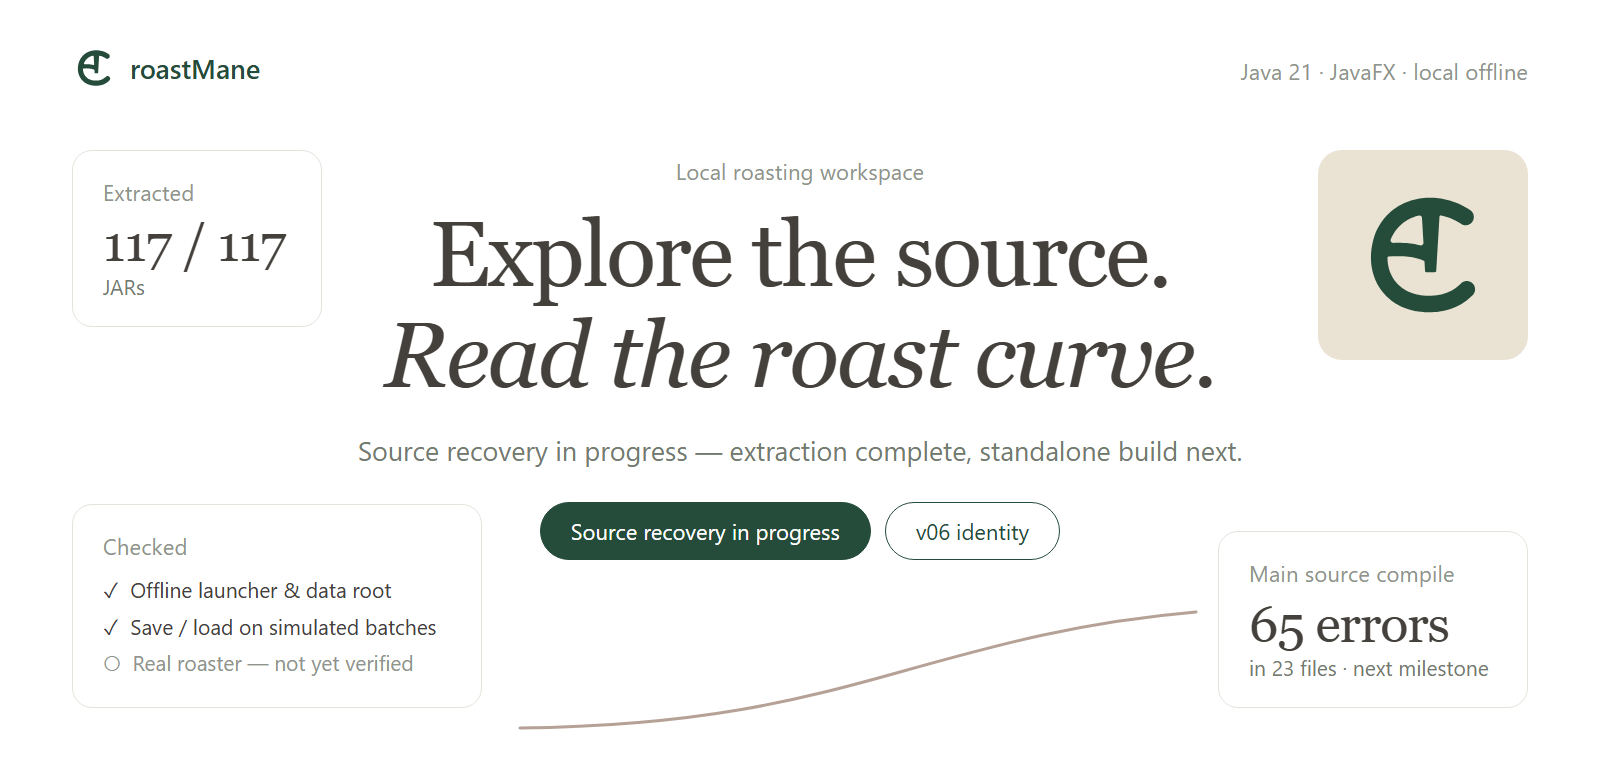
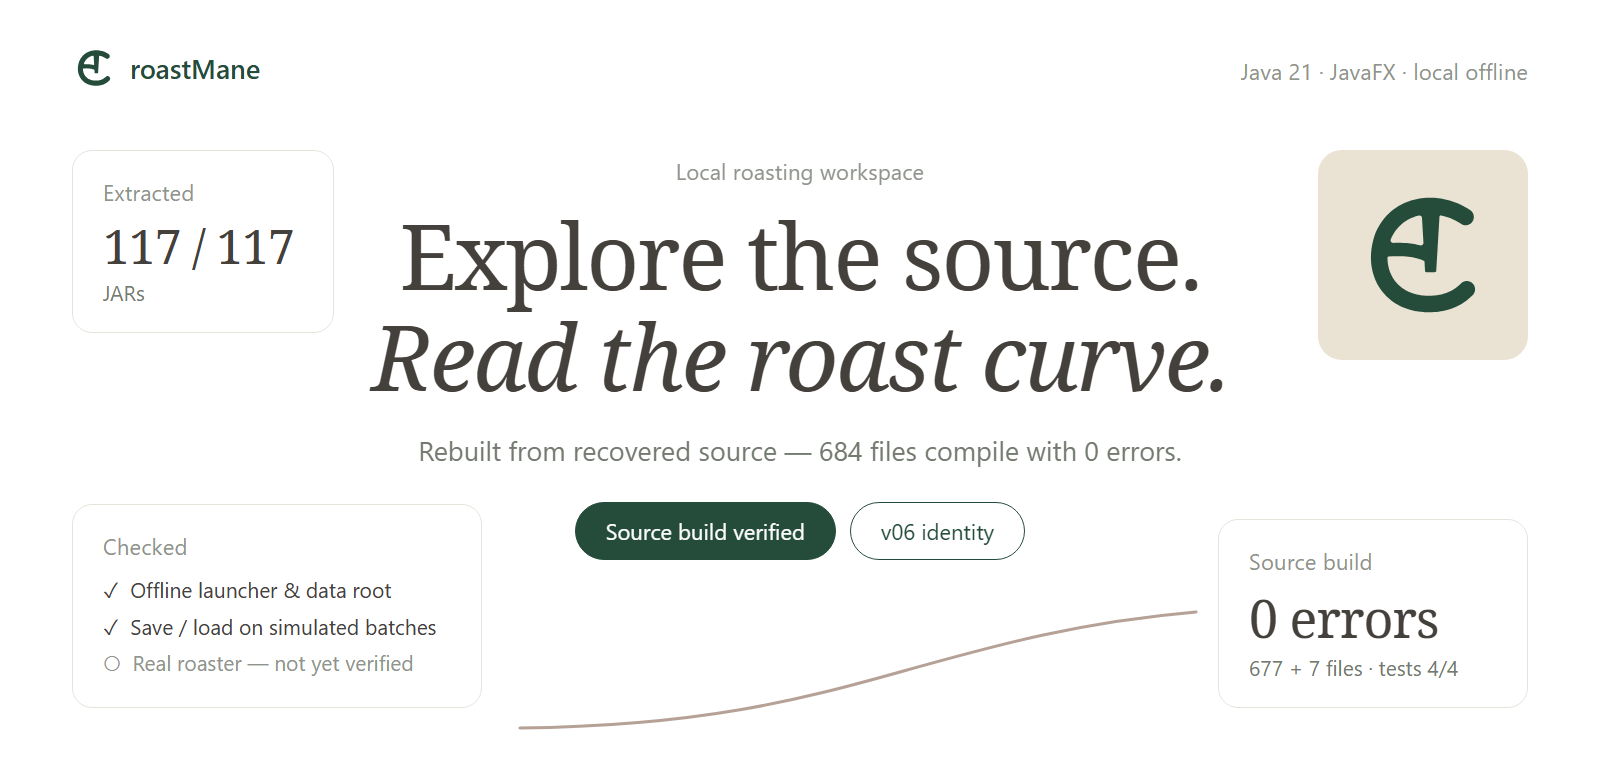
docs: README status and milestones as Steep-style cards, refresh visuals for 0-error source build
Plain tables move into collapsible sections; hero/journey/social now report the verified source build instead of 65 errors. Images get transparent rounded corners and Noto Serif for Vietnamese diacritics.

diff --git a/docs/BRAND.md b/docs/BRAND.md
@@ -13,7 +13,8 @@ Logo v06 được duyệt và tích hợp vào bản roastMane `-02`. Bộ logo 
 
 - [Logo, avatar và vector](../offline-v06/brand-kit/exports/).
 - [Banner README](assets/hero.png): 1600 × 760 px.
-- [Hình minh họa quá trình phục hồi](assets/source-journey.png): 1600 × 560 px.
+- [Thẻ trạng thái thực tế](assets/status.png): 1600 × 606 px, thay bảng "Phần việc" trong README (bảng chữ giữ trong mục gập).
+- [Bốn mốc phục hồi source](assets/source-journey.png): 1600 × 580 px, thay bảng "Mốc kiểm chứng".
 - [Ảnh chia sẻ liên kết](assets/social-preview.png): 1280 × 640 px. File đã sẵn sàng; việc gắn vào mục **Settings → Social preview** chưa được thực hiện vì phiên trình duyệt không đăng nhập GitHub.
 
 ## Phong cách trình bày: Steep, đổi theo v06 (từ 23/10/2026)
@@ -29,9 +30,9 @@ Hình GitHub theo kiểu [Steep — serif analytics on warm paper](https://style
 | Thẻ nhấn (tối đa một thẻ mỗi hình) | `#fbe1d1` | be `#EAE2D2` |
 | Chữ trên thẻ nhấn, nút chính | `#5d2a1a` / `#17191c` | xanh `#254C3B` |
 | Nét cong minh họa | `#5d2a1a` | nâu `#785440`, độ mờ 55 % |
-| Chữ | Signifier + Söhne | Georgia + Segoe UI |
+| Chữ | Signifier + Söhne | Noto Serif + Segoe UI (Georgia vỡ dấu tiếng Việt) |
 
-Khác Steep có chủ ý: **không đổ bóng** (thẻ nổi dùng viền mảnh `#E6E3DC`), không gradient, không mảng đen. Số liệu trên hình lấy nguyên từ README; nét cong chỉ là minh họa, không phải dữ liệu mẻ rang.
+Khác Steep có chủ ý: **không đổ bóng** (thẻ nổi dùng viền mảnh `#E6E3DC`), không gradient, không mảng đen. Ảnh README có góc bo trong suốt để không thành tảng vuông trên giao diện tối của GitHub. Số liệu trên hình lấy nguyên từ README; nét cong chỉ là minh họa, không phải dữ liệu mẻ rang. Đổi số liệu thì sửa `make_steep.py`, dựng lại rồi cập nhật cả bảng trong mục gập của README.
 
 Script dựng (`make_steep.py`, HTML → PNG bằng Chrome) lưu tại `F:\Kho-anh\99_Xuat-Photoshop\261023_roastMane_GitHub-Steep`. Bộ cũ nền xanh tối (Illustrator) giữ tại `F:\Kho-anh\99_Xuat-Photoshop\261022_roastMane_GitHub`. Repo chỉ giữ PNG nhỏ cần cho tài liệu; các bản PNG cũng có trong thư mục tập hợp ảnh xuất của kho.
 
